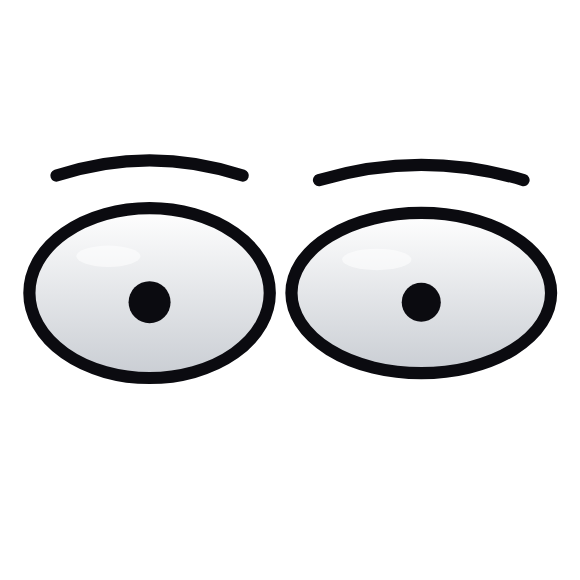
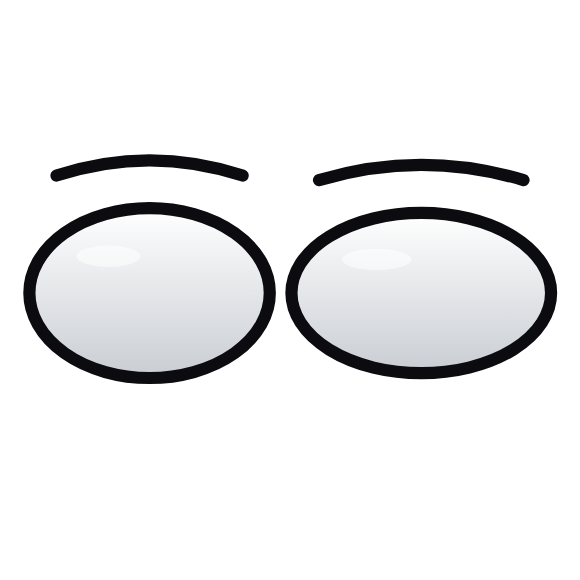
Şok ve Korkmuş ifadelerinden göz bebeği kaldırıldı (CB tarzı)
Claude-Session: https://claude.ai/code/session_016dSUtrNcGtDLyBLVobBuhL

Changed region(s): [[0.2172, 0.4655, 0.3103, 0.5586], [0.6828, 0.4655, 0.7759, 0.5586]]

diff --git a/src/components/WardenCB.tsx b/src/components/WardenCB.tsx
@@ -52,7 +52,7 @@ export const POSES = {
   wink:      { name: 'Göz kırpıyor', l: L(), r: K('arc'), brows: [[-16, -24, -18], [-34, -46, -36]], tilt: 4, fx: ['sparkle'] },
   think:     { name: 'Düşünceli', l: L(18), r: L(18), brows: [[-14, -24, -16], [-34, -52, -38]], look: [0.8, -0.6], tilt: 5 },
   wow:       { name: 'Şaşkın', l: K('round'), r: K('round'), brows: [[-30, -52, -32], [-32, -54, -34]], fx: ['exclam'] },
-  shock:     { name: 'Şok', l: K('round', 1.05, true), r: K('round', 1.05, true), brows: [[-40, -60, -40], [-40, -60, -40]], dy: -30, squash: 1.1, fx: ['exclam', 'shiver'] },
+  shock:     { name: 'Şok', l: K('round', 1.05), r: K('round', 1.05), brows: [[-40, -60, -40], [-40, -60, -40]], dy: -30, squash: 1.1, fx: ['exclam', 'shiver'] },
   sad:       { name: 'Üzgün', l: L(6, 12), r: L(6, 12), brows: [[-10, -14, -32], [-32, -14, -10]], look: [0, 0.6], squash: 0.96 },
   cry:       { name: 'Ağlıyor', l: K('closed'), r: K('closed'), brows: [[-10, -16, -34], [-34, -16, -10]], fx: ['tears', 'shiver'], squash: 0.94 },
   angry:     { name: 'Kızgın', l: L(6, -14), r: L(6, -14), brows: [[-34, -26, -10], [-10, -26, -34]], fx: ['anger'] },
@@ -66,7 +66,7 @@ export const POSES = {
   confused:  { name: 'Kafası karışık', l: L(8, 6), r: K('round', 0.85), brows: [[-12, -18, -10], [-36, -58, -40]], tilt: 10, fx: ['question'] },
   suspicious:{ name: 'Şüpheli', l: L(30, -6), r: L(30, -6), brows: [[-22, -16, -10], [-10, -16, -22]], look: [-1, 0] },
   proud:     { name: 'Gururlu', l: K('closed'), r: K('closed'), brows: [[-30, -40, -30], [-30, -40, -30]], tilt: -6, dy: -8, fx: ['sparkle'] },
-  scared:    { name: 'Korkmuş', l: K('round', 0.8, true), r: K('round', 0.8, true), brows: [[-20, -34, -44], [-44, -34, -20]], squash: 0.9, fx: ['sweat', 'shiver'] },
+  scared:    { name: 'Korkmuş', l: K('round', 0.8), r: K('round', 0.8), brows: [[-20, -34, -44], [-44, -34, -20]], squash: 0.9, fx: ['sweat', 'shiver'] },
   worried:   { name: 'Endişeli', l: L(0, 8), r: L(0, 8), brows: [[-14, -22, -40], [-40, -22, -14]], look: [0.4, 0.3], fx: ['sweat'] },
   embarrassed:{ name: 'Mahcup', l: K('closed'), r: K('closed'), brows: [[-10, -16, -30], [-30, -16, -10]], tilt: -5, fx: ['blush', 'sweat'] },
   dizzy:     { name: 'Sersem', l: K('spiral'), r: K('spiral'), tilt: 9, fx: ['music'] },
